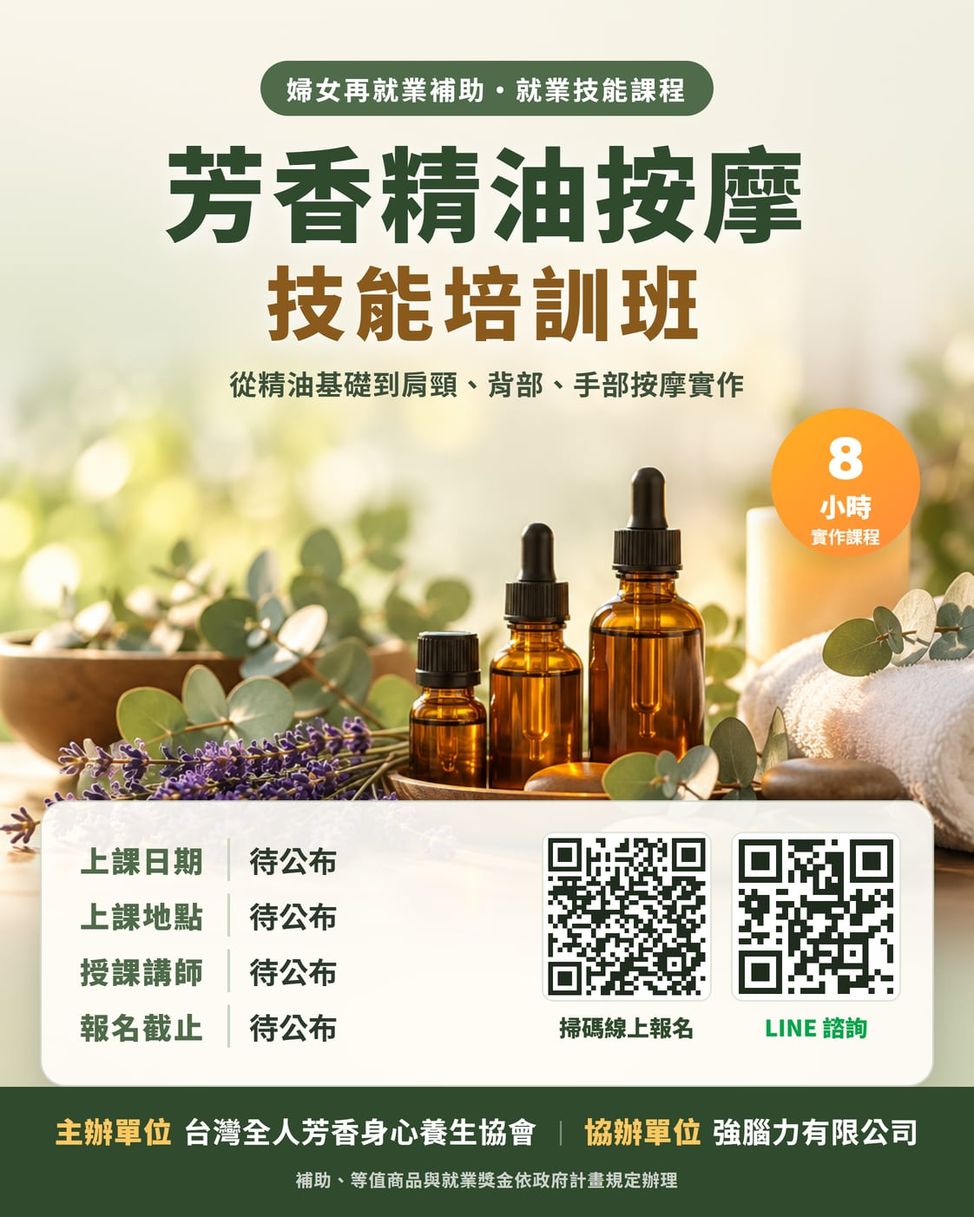
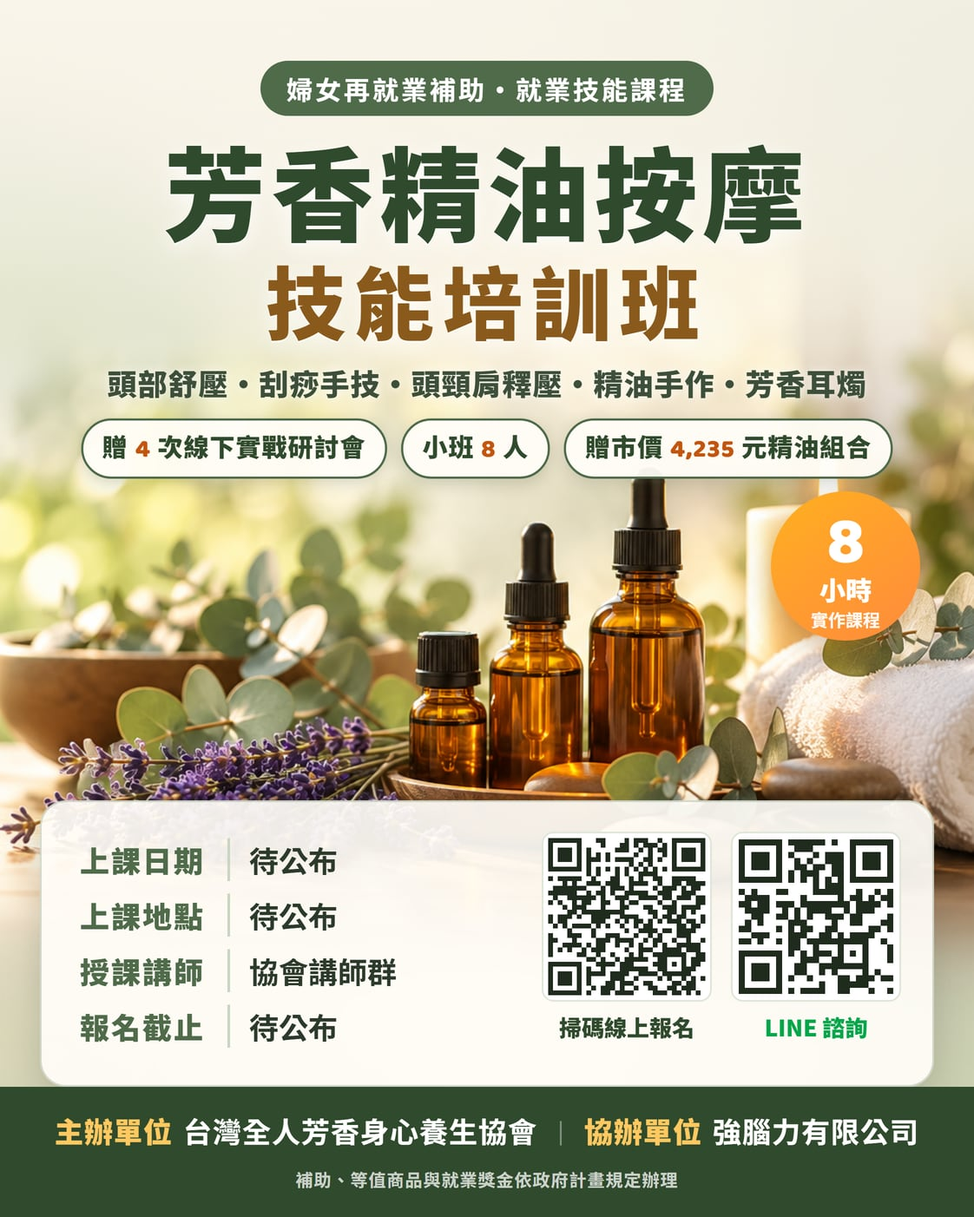
芳香班第二版：課程內容、班制、贈品、講師群（T415）

Changed region(s): [[0.0624, 0.3067, 0.967, 0.5521], [0.2496, 0.7668, 0.4055, 0.8281]]

diff --git a/course-pro-aroma.html b/course-pro-aroma.html
@@ -2,10 +2,10 @@
 <html lang="zh-Hant">
 <head>
 <!-- TODO(T411) 待補資料（確定後改這些地方，海報與 og 改 G:/_tmp/t411/poster.cjs 的 T 物件重跑）：
-  1. 上課日期、上課時段　2. 上課地點　3. 授課講師與資歷　4. 報名截止日
-  5. 課程大綱（目前是草擬版，標「草擬，待主辦確認」）　6. 課程 LINE 群組（有的話補在送出成功畫面與課程頁）
+  1. 上課日期、上課時段　2. 上課地點　3. 報名截止日（T415 已補：大綱四項、班制、贈品、講師＝協會講師群）
+  6. 課程 LINE 群組（有的話補在送出成功畫面與課程頁）
   7. 課程費用（目前照婦女再就業既有寫法：政府補助 20,000 元學費）
-  補完後一併拿掉頁面上「日期、地點、講師、報名截止：待公布」那行，並更新 JSON-LD 的 startDate／location／instructor。 -->
+  補完後一併拿掉頁面上「日期、地點、報名截止：待公布」那行，並更新 JSON-LD 的 startDate／location。 -->
 <script>(function(){try{var u=navigator.userAgent||'';if(/\bLine\//i.test(u)&&!/[?&]openExternalBrowser=1/.test(location.search)){var s=location.search?location.search+'&openExternalBrowser=1':'?openExternalBrowser=1';location.replace(location.pathname+s+location.hash);}}catch(e){}})();</script>
 <!-- Google tag (gtag.js) -->
 <script async src="https://www.googletagmanager.com/gtag/js?id=G-22EQNGV8C4"></script>
@@ -17,8 +17,8 @@
 </script>
 <meta charset="UTF-8">
 <meta name="viewport" content="width=device-width, initial-scale=1.0">
-<title>芳香精油按摩 技能培訓班・8 小時精油按摩實作｜強腦力 SkyBraining</title>
-<meta name="description" content="芳香精油按摩技能培訓班：8 小時實作課，從精油基礎與安全、基礎按摩手法，到肩頸、背部、手部按摩實作與客戶溝通、衛生。台灣全人芳香身心養生協會主辦、強腦力有限公司協辦，婦女再就業補助線上報名；上課日期、地點、講師與報名截止待公布。">
+<title>芳香精油按摩 技能培訓班・頭部舒壓、刮痧手技、精油手作｜強腦力 SkyBraining</title>
+<meta name="description" content="芳香精油按摩技能培訓班：課程 1 堂共 8 小時，教芳香頭部舒壓與精油刮痧手技、頭頸肩深度釋壓與淋巴按摩、精油手作、芳香耳燭；另贈 4 次線下實戰研討會與市價 4,235 元精油組合。每週一堂，分假日班與平日班，小班制 8 人以內。台灣全人芳香身心養生協會主辦、強腦力有限公司協辦，婦女再就業補助線上報名。">
 <link rel="preconnect" href="https://fonts.googleapis.com">
 <link rel="preconnect" href="https://fonts.gstatic.com" crossorigin>
 <link href="https://fonts.googleapis.com/css2?family=Noto+Sans+TC:wght@300;400;500;700;900&family=Baloo+2:wght@500;600;700;800&display=swap" rel="stylesheet">
@@ -178,8 +178,8 @@
 <link rel="canonical" href="https://skybraining.com/course-pro-aroma.html">
 <meta property="og:type" content="website">
 <meta property="og:site_name" content="強腦力 SkyBraining">
-<meta property="og:title" content="芳香精油按摩 技能培訓班・8 小時精油按摩實作｜強腦力 SkyBraining">
-<meta property="og:description" content="芳香精油按摩技能培訓班：8 小時實作課，從精油基礎與安全、基礎按摩手法，到肩頸、背部、手部按摩實作與客戶溝通、衛生。台灣全人芳香身心養生協會主辦、強腦力有限公司協辦，婦女再就業補助線上報名；上課日期、地點、講師與報名截止待公布。">
+<meta property="og:title" content="芳香精油按摩 技能培訓班・頭部舒壓、刮痧手技、精油手作｜強腦力 SkyBraining">
+<meta property="og:description" content="芳香精油按摩技能培訓班：課程 1 堂共 8 小時，教芳香頭部舒壓與精油刮痧手技、頭頸肩深度釋壓與淋巴按摩、精油手作、芳香耳燭；另贈 4 次線下實戰研討會與市價 4,235 元精油組合。每週一堂，分假日班與平日班，小班制 8 人以內。台灣全人芳香身心養生協會主辦、強腦力有限公司協辦，婦女再就業補助線上報名。">
 <meta property="og:url" content="https://skybraining.com/course-pro-aroma.html">
 <meta property="og:image" content="https://skybraining.com/og-funv-aroma.jpg">
 <meta property="og:image:width" content="1200">
@@ -189,7 +189,7 @@
 <meta name="twitter:card" content="summary_large_image">
 <meta name="twitter:image" content="https://skybraining.com/og-funv-aroma.jpg">
 <script type="application/ld+json">
-{"@context":"https://schema.org","@type":"Course","name":"芳香精油按摩技能培訓班","description":"芳香精油按摩技能培訓班：8 小時實作課，從精油基礎與安全、基礎按摩手法，到肩頸、背部、手部按摩實作與客戶溝通、衛生。台灣全人芳香身心養生協會主辦、強腦力有限公司協辦，婦女再就業補助線上報名；上課日期、地點、講師與報名截止待公布。","url":"https://skybraining.com/course-pro-aroma.html","image":"https://skybraining.com/img-funv-aroma-poster.jpg","inLanguage":"zh-Hant","provider":{"@type":"Organization","name":"台灣全人芳香身心養生協會"},"hasCourseInstance":{"@type":"CourseInstance","courseMode":"Onsite","courseWorkload":"PT8H"},"offers":{"@type":"Offer","price":"20000","priceCurrency":"TWD","category":"Paid","url":"https://skybraining.com/funv-apply-aroma.html"},"contributor":{"@type":"Organization","name":"強腦力有限公司"}}
+{"@context":"https://schema.org","@type":"Course","name":"芳香精油按摩技能培訓班","description":"芳香精油按摩技能培訓班：課程 1 堂共 8 小時，教芳香頭部舒壓與精油刮痧手技、頭頸肩深度釋壓與淋巴按摩、精油手作、芳香耳燭；另贈 4 次線下實戰研討會與市價 4,235 元精油組合。每週一堂，分假日班與平日班，小班制 8 人以內。台灣全人芳香身心養生協會主辦、強腦力有限公司協辦，婦女再就業補助線上報名。","url":"https://skybraining.com/course-pro-aroma.html","image":"https://skybraining.com/img-funv-aroma-poster.jpg","inLanguage":"zh-Hant","provider":{"@type":"Organization","name":"台灣全人芳香身心養生協會"},"hasCourseInstance":{"@type":"CourseInstance","courseMode":"Onsite","courseWorkload":"PT8H"},"teaches":["芳香頭部舒壓","精油刮痧手技","頭頸肩深度釋壓","淋巴按摩","精油手作","芳香耳燭"],"offers":{"@type":"Offer","price":"20000","priceCurrency":"TWD","category":"Paid","url":"https://skybraining.com/funv-apply-aroma.html"},"contributor":{"@type":"Organization","name":"強腦力有限公司"}}
 </script>
 </head>
 <body>
@@ -221,14 +221,14 @@
         <span class="lv-badge">🌿 婦女再就業補助・芳香精油按摩課程</span>
         <h1 class="c-title"><span style="white-space:nowrap;">芳香精油按摩</span> <span style="white-space:nowrap;">技能培訓班</span></h1>
         <div class="c-en">主辦單位：台灣全人芳香身心養生協會</div>
-        <p class="c-lead">你想把放鬆照護變成一份工作嗎？這門 8 小時培訓班帶你認識精油基礎與安全使用，學基礎按摩手法，實際練習肩頸、背部、手部按摩流程，再練客戶溝通與衛生，讓你有一套能上手的放鬆服務技能。</p>
+        <p class="c-lead">你想把放鬆照護變成一份工作嗎？這門課 1 堂 8 小時，帶你練芳香頭部舒壓與精油刮痧手技、頭頸肩深度釋壓與淋巴按摩，再動手做精油手作、學芳香耳燭；另外送你 4 次線下實戰研討會，讓你有一套能上手的放鬆服務技能。</p>
         <div class="c-price-row">
           <div class="c-price">NT$20,000<small>政府補助學費・依政府計畫規定</small></div>
           <a href="#buy" class="btn-buy bounce">我要報名 →</a>
         </div>
-        <div class="c-microtrust">8 小時實作課・<b style="color:#a3480f;">日期、地點、講師、報名截止：待公布</b></div>
+        <div class="c-microtrust">1 堂 8 小時・贈 4 次實戰研討會・小班 8 人以內・<b style="color:#a3480f;">日期、地點、報名截止：待公布</b></div>
       </div>
-      <figure class="c-poster reveal"><img src="img-funv-aroma-poster.jpg" width="1122" height="1402" fetchpriority="high" decoding="async" alt="芳香精油按摩 技能培訓班 課程海報：8 小時實作課程，台灣全人芳香身心養生協會主辦、強腦力有限公司協辦"></figure>
+      <figure class="c-poster reveal"><img src="img-funv-aroma-poster.jpg" width="1122" height="1402" fetchpriority="high" decoding="async" alt="芳香精油按摩 技能培訓班 課程海報：課程 1 堂 8 小時，贈 4 次線下實戰研討會與市價 4,235 元精油組合，小班 8 人，台灣全人芳香身心養生協會主辦、強腦力有限公司協辦"></figure>
     </div>
   </div>
 </header>
@@ -240,11 +240,14 @@
     <div class="facts reveal">
       <dl>
         <dt>課程名稱</dt><dd>芳香精油按摩 技能培訓班</dd>
-        <dt>授課講師</dt><dd>待公布</dd>
-        <dt>訓練時數</dt><dd>8 小時</dd>
-        <dt>上課日期</dt><dd>待公布</dd>
+        <dt>授課講師</dt><dd>協會講師群</dd>
+        <dt>訓練時數</dt><dd>課程 1 堂，共 8 小時</dd>
+        <dt>實戰研討會</dt><dd>另贈送 4 次線下實戰研討會</dd>
+        <dt>上課日期</dt><dd>待公布（每週一堂，分假日班與平日班）</dd>
         <dt>上課時段</dt><dd>待公布</dd>
         <dt>上課地點</dt><dd>待公布</dd>
+        <dt>班級人數</dt><dd>小班制，8 人以內</dd>
+        <dt>課程贈品</dt><dd>贈送市價 4,235 元精油組合</dd>
         <dt>報名截止</dt><dd>待公布</dd>
         <dt>主辦單位</dt><dd>台灣全人芳香身心養生協會</dd>
         <dt>協辦單位</dt><dd>強腦力有限公司</dd>
@@ -262,14 +265,13 @@
     <div class="eyebrow" style="justify-content:center;text-align:center;display:flex;">課程重點</div>
     <h2 class="sec" style="text-align:center;">課程大綱</h2>
     <div class="cur reveal">
-      <p class="cur-note">課程大綱為草擬版，待主辦單位確認後更新；共 8 小時。</p>
-      <div class="mod"><div class="mod-n">01</div><div><h3>精油基礎與安全</h3><p>認識常見精油與基底油、稀釋比例、肌膚測試與使用注意事項。</p></div></div>
-      <div class="mod"><div class="mod-n">02</div><div><h3>基礎按摩手法</h3><p>輕撫、揉捏、按壓等手法，練習力道控制與工作姿勢。</p></div></div>
-      <div class="mod"><div class="mod-n">03</div><div><h3>肩頸・背部實作</h3><p>兩人一組，演練完整的肩頸與背部放鬆流程。</p></div></div>
-      <div class="mod"><div class="mod-n">04</div><div><h3>手部實作</h3><p>手部放鬆按摩流程與服務細節。</p></div></div>
-      <div class="mod"><div class="mod-n">05</div><div><h3>客戶溝通與衛生</h3><p>服務前詢問、場地與用品清潔、服務流程與接待。</p></div></div>
-      <div class="mod"><div class="mod-n">06</div><div><h3>實用應用情境</h3><ol style="margin:4px 0 0;padding-left:1.4em;font-size:14.5px;color:var(--ink-soft);line-height:1.8;"><li>SPA、養生館放鬆服務</li><li>美容美體工作室</li><li>精油、香氛門市</li><li>個人工作室、到府服務</li></ol><p style="margin-top:6px;font-size:13px;color:var(--ink-soft);">本課程是放鬆服務的技能訓練，不涉及醫療。</p></div></div>
-      <p style="margin-top:24px;text-align:center;font-weight:700;color:var(--indigo);font-size:16.5px;">從精油基礎到按摩實作，學一套能上手的放鬆照護技能。</p>
+      <p class="cur-note">課程 1 堂共 8 小時；另贈送 4 次線下實戰研討會。每週一堂，分假日班與平日班，小班制 8 人以內。</p>
+      <div class="mod"><div class="mod-n">01</div><div><h3>芳香頭部舒壓、精油刮痧手技</h3><p>練習頭部放鬆的按壓手法與精油使用，學刮痧板的拿法、方向與力道。</p></div></div>
+      <div class="mod"><div class="mod-n">02</div><div><h3>頭頸肩深度釋壓、淋巴按摩</h3><p>練習頭、頸、肩的完整放鬆流程，學淋巴按摩的手法順序與輕柔力道。</p></div></div>
+      <div class="mod"><div class="mod-n">03</div><div><h3>精油手作</h3><p>動手做一份自己的精油手作品，認識調配步驟與安全使用。</p></div></div>
+      <div class="mod"><div class="mod-n">04</div><div><h3>芳香耳燭</h3><p>認識芳香耳燭的操作步驟、安全注意事項與服務流程。</p></div></div>
+      <div class="mod"><div class="mod-n">05</div><div><h3>實用應用情境</h3><ol style="margin:4px 0 0;padding-left:1.4em;font-size:14.5px;color:var(--ink-soft);line-height:1.8;"><li>SPA、養生館放鬆服務</li><li>美容美體工作室</li><li>精油、香氛門市</li><li>個人工作室、到府服務</li></ol><p style="margin-top:6px;font-size:13px;color:var(--ink-soft);">本課程是放鬆服務的技能訓練，不涉及醫療。</p></div></div>
+      <p style="margin-top:24px;text-align:center;font-weight:700;color:var(--indigo);font-size:16.5px;">從頭部舒壓到精油手作，學一套能上手的放鬆照護技能。</p>
     </div>
   </div>
 </section>
@@ -279,7 +281,7 @@
     <div class="eyebrow" style="justify-content:center;text-align:center;display:flex;">常見問題</div>
     <h2 class="sec" style="text-align:center;">關於這門課</h2>
     <div class="faq-list">
-      <div class="faq"><button class="faq-q">上課時間和地點在哪？<span class="pm">＋</span></button><div class="faq-a"><p>上課日期、時段、地點與講師都還在安排，確定後會公布在這一頁；你可以先填報名表，專人打電話跟你確認時也會說明。</p></div></div>
+      <div class="faq"><button class="faq-q">上課時間和地點在哪？<span class="pm">＋</span></button><div class="faq-a"><p>課程每週一堂，分假日班與平日班；確切日期、時段與地點還在安排，確定後會公布在這一頁。你可以先填報名表，專人打電話跟你確認時也會說明。</p></div></div>
       <div class="faq"><button class="faq-q">我可以申請婦女再就業補助嗎？<span class="pm">＋</span></button><div class="faq-a"><p>離開公司職場滿 180 天、目前沒有公司勞保的女性可以申請。填完報名表，會有專人打電話跟你確認資格。</p></div></div>
       <div class="faq"><button class="faq-q">等值商品和就業獎金怎麼領？<span class="pm">＋</span></button><div class="faq-a"><p>依政府計畫規定辦理，結業獎金領取條件請洽詢各地就業服務站；報名後專人打電話時也會跟你說明。</p></div></div>
       <div class="faq"><button class="faq-q">怎麼報名？<span class="pm">＋</span></button><div class="faq-a"><p>點下方「填寫報名表」完成線上報名；有問題也可以先加 LINE 問我們。</p></div></div>
@@ -291,7 +293,7 @@
   <div class="wrap">
     <div class="buy-cta reveal">
       <h2>把放鬆照護變成你的一份技能</h2>
-      <p>8 小時實作課・婦女再就業補助線上報名・日期地點待公布</p>
+      <p>1 堂 8 小時＋4 次實戰研討會・小班 8 人以內・婦女再就業補助線上報名</p>
       <div class="actions">
         <a href="funv-apply-aroma.html" class="btn-buy bounce" style="box-shadow:0 10px 26px rgba(59,98,68,.4);">填寫報名表 →</a>
         <a href="https://lin.ee/9EGO8IT" target="_blank" rel="noopener" class="btn-line-lg">

diff --git a/funv-apply-aroma.html b/funv-apply-aroma.html
@@ -2,10 +2,10 @@
 <html lang="zh-Hant">
 <head>
 <!-- TODO(T411) 待補資料（確定後改這些地方，海報與 og 改 G:/_tmp/t411/poster.cjs 的 T 物件重跑）：
-  1. 上課日期、上課時段　2. 上課地點　3. 授課講師與資歷　4. 報名截止日
-  5. 課程大綱（目前是草擬版，標「草擬，待主辦確認」）　6. 課程 LINE 群組（有的話補在送出成功畫面與課程頁）
+  1. 上課日期、上課時段　2. 上課地點　3. 報名截止日（T415 已補：大綱四項、班制、贈品、講師＝協會講師群）
+  6. 課程 LINE 群組（有的話補在送出成功畫面與課程頁）
   7. 課程費用（目前照婦女再就業既有寫法：政府補助 20,000 元學費）
-  補完後一併拿掉頁面上「日期、地點、講師、報名截止：待公布」那行，並更新 JSON-LD 的 startDate／location／instructor。 -->
+  補完後一併拿掉頁面上「日期、地點、報名截止：待公布」那行，並更新 JSON-LD 的 startDate／location。 -->
 <script>(function(){try{var u=navigator.userAgent||'';if(/\bLine\//i.test(u)&&!/[?&]openExternalBrowser=1/.test(location.search)){var s=location.search?location.search+'&openExternalBrowser=1':'?openExternalBrowser=1';location.replace(location.pathname+s+location.hash);}}catch(e){}})();</script>
 <!-- Google tag (gtag.js) -->
 <script async src="https://www.googletagmanager.com/gtag/js?id=G-22EQNGV8C4"></script>
@@ -18,7 +18,7 @@
 <meta charset="UTF-8">
 <meta name="viewport" content="width=device-width, initial-scale=1">
 <title>婦女再就業補助｜就業技能課程報名｜芳香精油按摩技能培訓班｜強腦力 SkyBraining</title>
-<meta name="description" content="婦女再就業補助的就業技能課程線上報名表：離開公司職場滿 180 天、目前沒有公司勞保的女性可以申請，本頁報名台灣全人芳香身心養生協會主辦的「芳香精油按摩 技能培訓班」，共 8 小時，日期、地點、講師、報名截止：待公布。填完表單會有專人打電話跟你確認。">
+<meta name="description" content="婦女再就業補助的就業技能課程線上報名表：離開公司職場滿 180 天、目前沒有公司勞保的女性可以申請，本頁報名台灣全人芳香身心養生協會主辦的「芳香精油按摩 技能培訓班」，課程 1 堂共 8 小時，另贈 4 次線下實戰研討會與市價 4,235 元精油組合，小班制 8 人以內；日期、地點、報名截止：待公布。填完表單會有專人打電話跟你確認。">
 <meta name="author" content="強腦力 SkyBraining">
 <meta name="robots" content="noindex,nofollow">
 <meta property="og:type" content="website">
@@ -187,19 +187,22 @@ fieldset.f legend{padding:0;}
   <!-- 第 1 步：資格與準備 -->
   <section class="step on" id="step1" data-title="資格與準備">
     <figure class="poster">
-      <img src="img-funv-aroma-poster.jpg" alt="芳香精油按摩 技能培訓班 課程海報：8 小時實作課程，台灣全人芳香身心養生協會主辦、強腦力有限公司協辦，日期地點講師待公布" width="1122" height="1402" loading="eager" decoding="async">
+      <img src="img-funv-aroma-poster.jpg" alt="芳香精油按摩 技能培訓班 課程海報：課程 1 堂 8 小時，贈 4 次線下實戰研討會與市價 4,235 元精油組合，小班 8 人，台灣全人芳香身心養生協會主辦、強腦力有限公司協辦，日期地點待公布" width="1122" height="1402" loading="eager" decoding="async">
     </figure>
-    <p class="tbd" role="note">日期、地點、講師、報名截止：待公布</p>
+    <p class="tbd" role="note">日期、地點、報名截止：待公布</p>
 
     <div class="card">
       <h3>課程資訊</h3>
       <div class="note">
         <p><b>課程名稱：</b>芳香精油按摩 <span style="white-space:nowrap;">技能培訓班</span></p>
-        <p><b>授課講師：</b>待公布</p>
-        <p><b>訓練時數：</b>8 小時</p>
-        <p><b>上課日期：</b>待公布</p>
+        <p><b>授課講師：</b>協會講師群</p>
+        <p><b>訓練時數：</b>課程 1 堂，共 8 小時</p>
+        <p><b>實戰研討會：</b>另贈送 4 次線下<span style="white-space:nowrap;">實戰研討會</span></p>
+        <p><b>上課日期：</b>待公布（每週一堂，<span style="white-space:nowrap;">分假日班與平日班</span>）</p>
         <p><b>上課時段：</b>待公布</p>
         <p><b>上課地點：</b>待公布</p>
+        <p><b>班級人數：</b>小班制，8 人以內</p>
+        <p><b>課程贈品：</b>贈送市價 4,235 元<span style="white-space:nowrap;">精油組合</span></p>
         <p><b>報名截止：</b>待公布</p>
         <p><b>主辦單位：</b><span style="white-space:nowrap;">台灣全人芳香身心養生協會</span></p>
         <p><b>協辦單位：</b>強腦力有限公司</p>
@@ -214,10 +217,10 @@ fieldset.f legend{padding:0;}
 
     <div class="card">
       <h3>課程說明</h3>
-      <p style="margin:0 0 10px;font-weight:700;color:var(--indigo);">從精油基礎到按摩實作，學一套能上手的放鬆照護技能。</p>
+      <p style="margin:0 0 10px;font-weight:700;color:var(--indigo);">從頭部舒壓到精油手作，學一套能上手的放鬆照護技能。</p>
       <div class="note">
-        <p><b>課程大綱</b><span style="margin-left:8px;font-size:13px;font-weight:500;color:var(--ink-soft);">（草擬，待主辦確認）</span></p>
-        <ol><li><b>精油基礎與安全</b>：認識常見精油與基底油、稀釋比例、肌膚測試與使用注意事項</li><li><b>基礎按摩手法</b>：輕撫、揉捏、按壓等手法，力道與姿勢</li><li><b>肩頸・背部實作</b>：兩人一組演練完整的肩頸與背部放鬆流程</li><li><b>手部實作</b>：手部放鬆按摩流程與服務細節</li><li><b>客戶溝通與衛生</b>：服務前詢問、場地與用品清潔、服務流程與接待</li></ol>
+        <p><b>課程大綱</b></p>
+        <ol><li><b>芳香頭部舒壓、精油刮痧手技</b>：練習頭部放鬆的按壓手法與精油使用，學刮痧板的拿法、方向與力道</li><li><b>頭頸肩深度釋壓、淋巴按摩</b>：練習頭、頸、肩的完整放鬆流程，學淋巴按摩的手法順序與輕柔力道</li><li><b>精油手作</b>：動手做一份自己的精油手作品，認識調配步驟與安全使用</li><li><b>芳香耳燭</b>：認識芳香耳燭的操作步驟、安全注意事項與服務流程</li></ol>
       </div>
       <div class="note">
         <p><b>實用應用情境</b></p>

diff --git a/admin-landings.html b/admin-landings.html
@@ -174,7 +174,7 @@
     { group:'婦女再就業', file:'funv-apply-cooking.html', name:'婦女再就業：妙珠中餐料理實作班報名', use:'只報妙珠【中餐料理實作班】這一門，邀請人由報名者自己填，表單（含身分證照片）寫進婦女再就業名單。', admin:[{ href:'admin-funv-cooking.html', label:'中餐料理實作班名單' }], status:'live' },
     { group:'婦女再就業', file:'funv-apply-singingbowl.html', name:'婦女再就業：頌缽－缽動筋膜調理報名', use:'只報史麗仙【缽動筋膜調理】這一門，邀請人由報名者自己填，表單（含身分證照片）寫進婦女再就業名單。', admin:[{ href:'admin-funv-singingbowl.html', label:'缽動筋膜調理名單' }], status:'live' },
     { group:'婦女再就業', file:'funv-apply-yuting.html', name:'婦女再就業：包租代管實戰班（葉毓亭）報名', use:'只報毓亭【包租代管實戰班】這一門（葉毓亭老師，和張育誠那門分開收），邀請人由報名者自己填，表單（含身分證照片）寫進婦女再就業名單。', admin:[{ href:'admin-funv-yuting.html', label:'毓亭包租代管名單' }], status:'live' },
-    { group:'婦女再就業', file:'funv-apply-aroma.html', name:'婦女再就業：芳香精油按摩技能培訓班報名', use:'只報芳香精油按摩【技能培訓班】這一門（台灣全人芳香身心養生協會主辦、強腦力有限公司協辦；日期、地點、講師、報名截止待公布），邀請人由報名者自己填，表單（含身分證照片）寫進婦女再就業名單。', admin:[{ href:'admin-funv-aroma.html', label:'芳香精油按摩名單' }], status:'live' },
+    { group:'婦女再就業', file:'funv-apply-aroma.html', name:'婦女再就業：芳香精油按摩技能培訓班報名', use:'只報芳香精油按摩【技能培訓班】這一門（台灣全人芳香身心養生協會主辦、強腦力有限公司協辦；協會講師群，日期、地點、報名截止待公布），邀請人由報名者自己填，表單（含身分證照片）寫進婦女再就業名單。', admin:[{ href:'admin-funv-aroma.html', label:'芳香精油按摩名單' }], status:'live' },
     { group:'婦女再就業', file:'funv-apply-meili.html', name:'婦女再就業：美莉記者團隊推薦專屬報名', use:'推薦人專屬連結（總覽頁沒連過去），邀請人自動帶美莉記者團隊；只報 AI 短影音實戰班。', admin:[{ href:'admin-funv-aivideo.html', label:'AI 短影音實戰班名單' }], status:'live' },
     { group:'婦女再就業', file:'funv-apply-huizhen.html', name:'婦女再就業：蕙禎團隊推薦專屬報名', use:'推薦人專屬連結（總覽頁沒連過去），邀請人自動帶蕙禎團隊；只報 AI 短影音實戰班。', admin:[{ href:'admin-funv-aivideo.html', label:'AI 短影音實戰班名單' }], status:'live' },
     { group:'婦女再就業', file:'funv-apply-junrong.html', name:'婦女再就業：君蓉推薦專屬報名', use:'推薦人專屬連結（總覽頁沒連過去），邀請人自動帶君蓉；整體造型、AI 短影音二選一。', admin:[{ href:'admin-funv.html', label:'婦女再就業報名（全部）' }], status:'live' }

diff --git a/funv.html b/funv.html
@@ -282,7 +282,7 @@
       <div class="fthumb"><img src="img-funv-aroma-poster.jpg" alt="芳香精油按摩 技能培訓班 課程海報・台灣全人芳香身心養生協會主辦" width="1122" height="1402" loading="lazy" decoding="async"></div>
       <div class="fbody">
         <h3 class="fname">芳香精油按摩 技能培訓班</h3>
-        <p class="fteacher">講師待公布</p>
+        <p class="fteacher">協會講師群</p>
         <p class="fjobs">未來想就業方向：SPA 與養生館按摩、美容美體工作室、精油門市、個人工作室</p>
         <span class="fgo">填報名表 →</span>
       </div>
